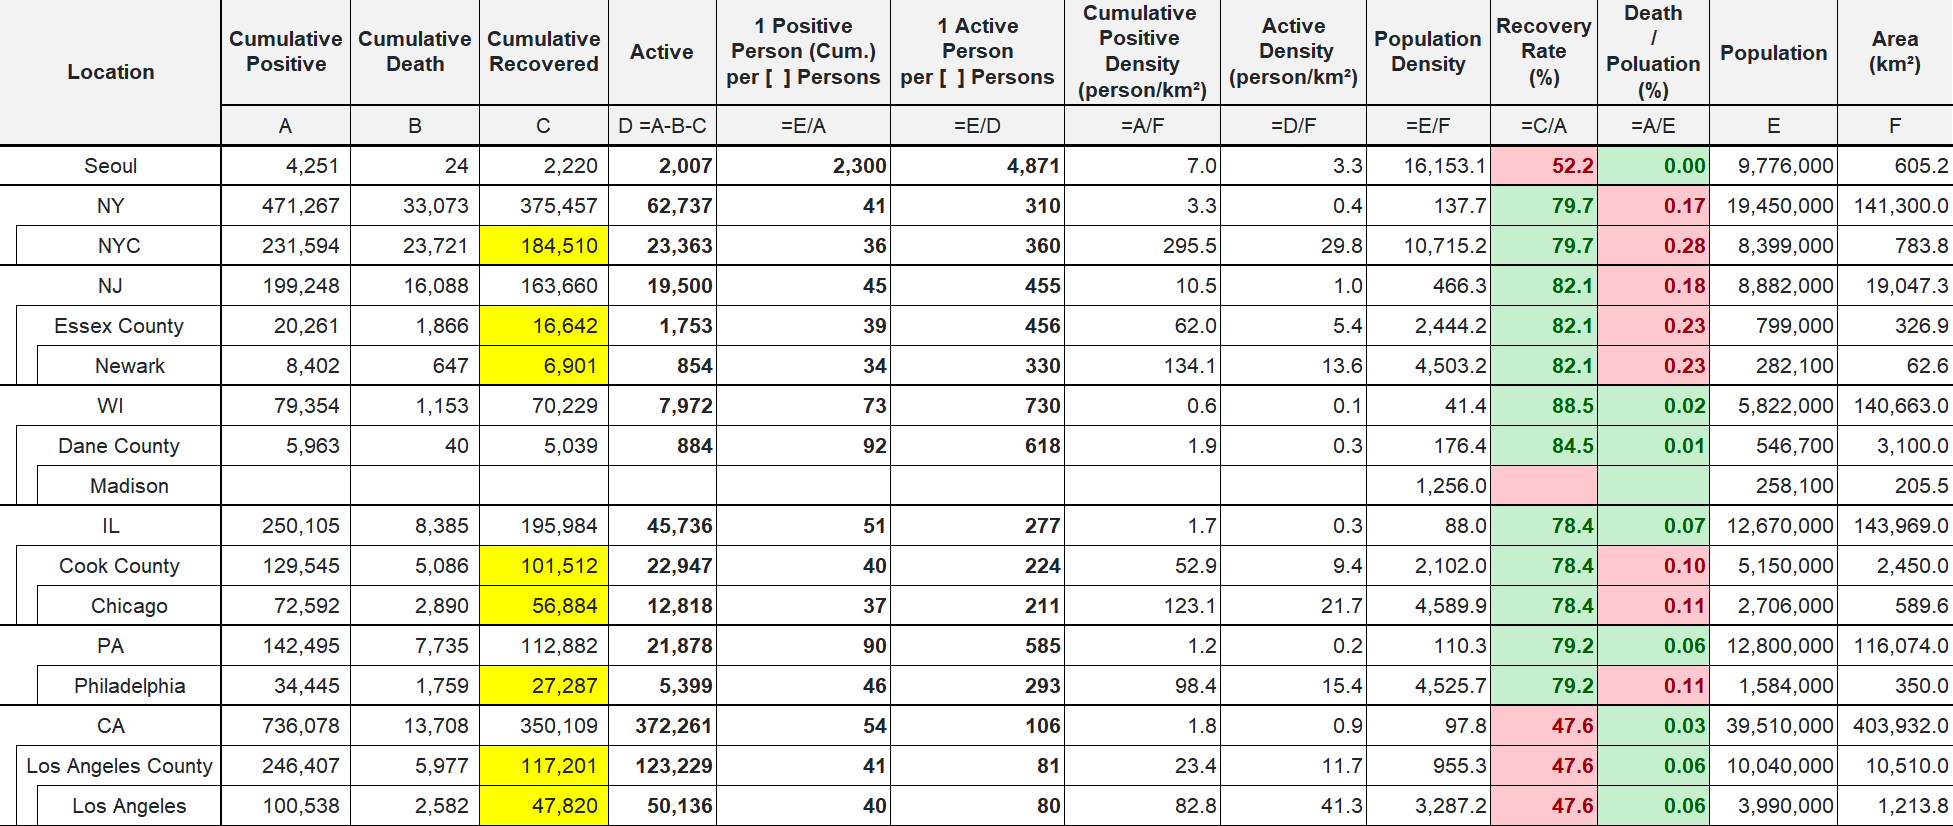
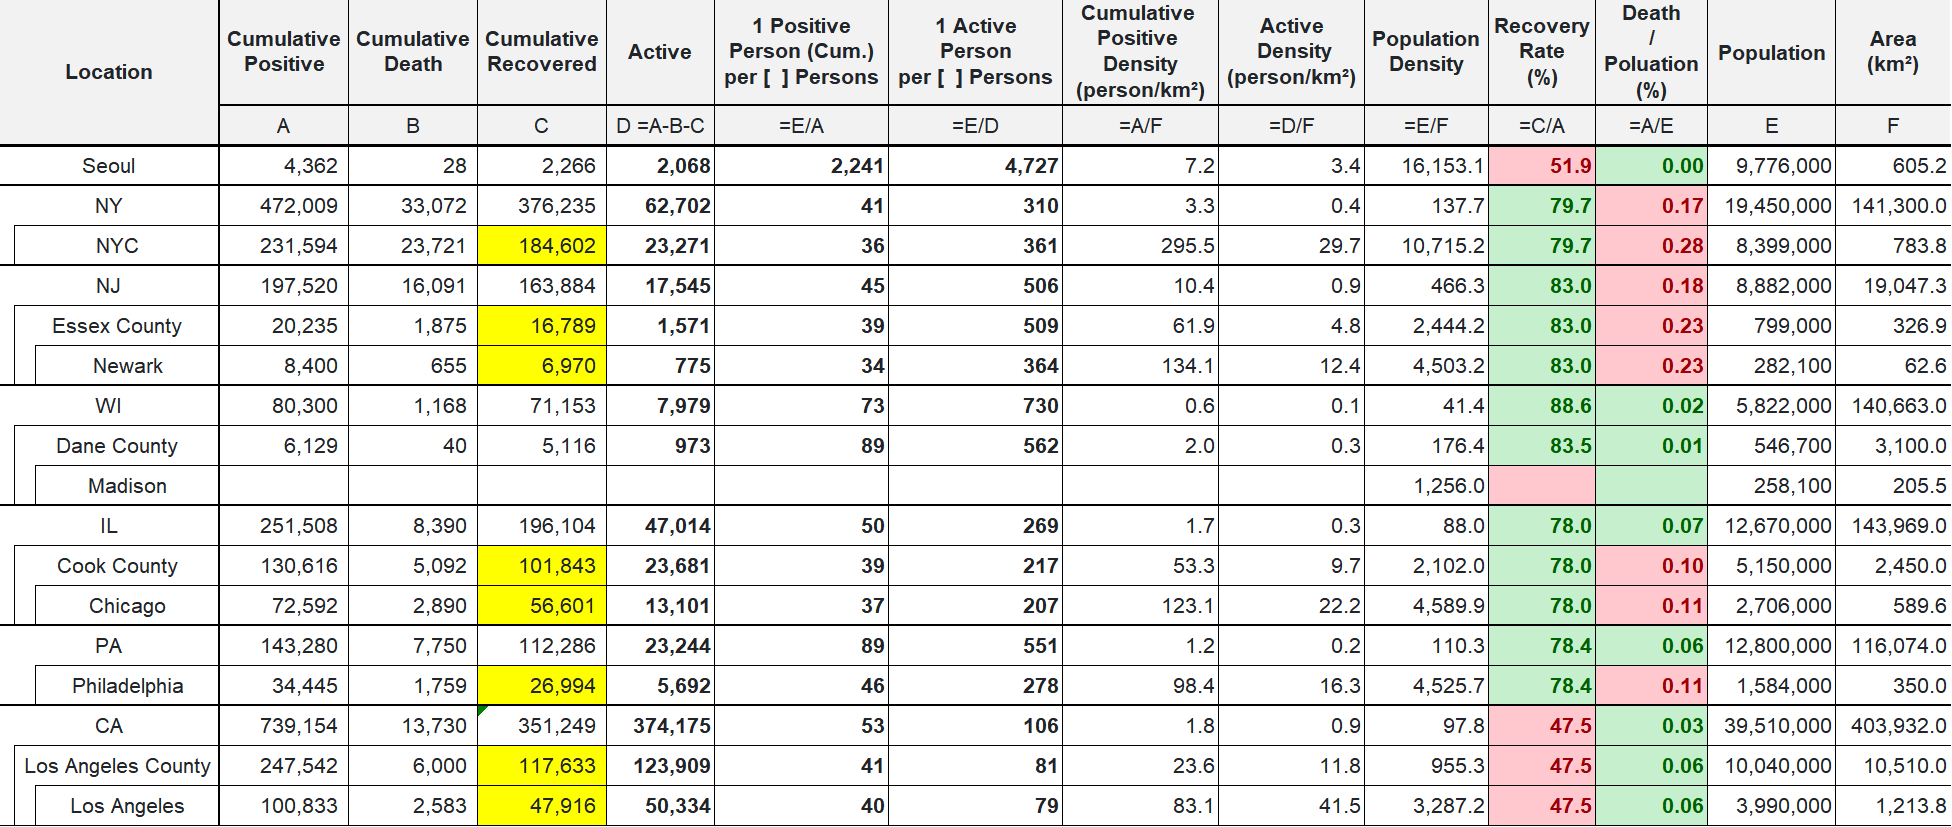
update 9/7 status

Changed region(s): [[0.0, 0.0, 1.0, 1.0], [0.0312, 0.0605, 0.0938, 0.1211], [0.8125, 0.0, 0.875, 0.0303]]

diff --git a/index.html b/index.html
@@ -19,7 +19,7 @@
 
 <body class="container-fluid">
 	<h1> CoronaV for Friends</h1>
-	<h2> Data updated at Sep 05 2020 EST 21:55</h2>
+	<h2> Data updated at Sep 08 2020 EST 00:10</h2>
 	<hr>
 	<main>
 		<div class="row">
